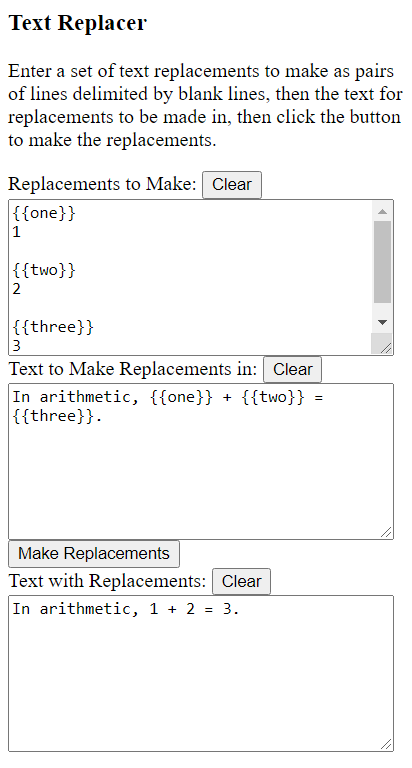
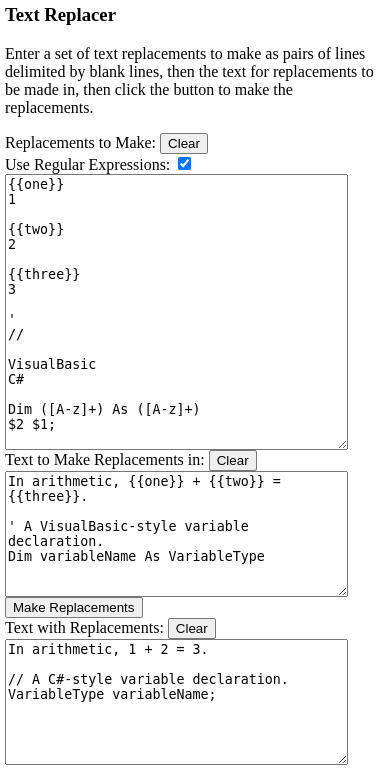
Added support for regular expressions.

diff --git a/Source/TextFinderAndReplacer.html b/Source/TextFinderAndReplacer.html
@@ -4,19 +4,22 @@
 
 <div id="divUi">
 
-	<div>
-		<h3>Text Replacer</h3>
-		<p>
-			Enter a set of text replacements to make
-			as pairs of lines delimited by blank lines,
-			then the text for replacements to be made in,
-			then click the button to make the replacements.
-		</p>
+	<h3>Text Replacer</h3>
+	<p>
+		Enter a set of text replacements to make
+		as pairs of lines delimited by blank lines,
+		then the text for replacements to be made in,
+		then click the button to make the replacements.
+	</p>
 
+	<div>
 		<label>Replacements to Make:</label>
 		<button onclick="UiEventHandler.buttonReplacementsToMakeClear_Clicked();">Clear</button>
 		<br />
-		<textarea id="textareaReplacementsToMake" cols="40" rows="8">
+		<label>Use Regular Expressions:</label>
+		<input id="checkboxUseRegularExpressions" type="checkbox"></input>
+		<br />
+		<textarea id="textareaReplacementsToMake" cols="40" rows="18">
 {{one}}
 1
 
@@ -25,6 +28,15 @@
 
 {{three}}
 3
+
+'
+//
+
+VisualBasic
+C#
+
+Dim ([A-z]+) As ([A-z]+)
+$2 $1;
 		</textarea>
 	</div>
 
@@ -34,6 +46,9 @@
 		<br />
 		<textarea id="textareaTextToMakeReplacementsIn" cols="40" rows="8">
 In arithmetic, {{one}} + {{two}} = {{three}}.
+
+' A VisualBasic-style variable declaration.
+Dim variableName As VariableType
 		</textarea>
 	</div>
 
@@ -54,8 +69,14 @@ In arithmetic, {{one}} + {{two}} = {{three}}.
 
 class TextReplacer
 {
-	constructor(replacementsToMakeAsStringPairs)
+	constructor
+	(
+		shouldUseRegularExpressions,
+		replacementsToMakeAsStringPairs
+	)
 	{
+		this.shouldUseRegularExpressions =
+			shouldUseRegularExpressions;
 		this.replacementsToMakeAsStringPairs =
 			replacementsToMakeAsStringPairs;
 	}
@@ -69,21 +90,68 @@ class TextReplacer
 			var replacementToMakeAsStringPair =
 				this.replacementsToMakeAsStringPairs[r];
 
-			var textToBeReplaced = replacementToMakeAsStringPair[0];
-			var textToReplaceWith = replacementToMakeAsStringPair[1];
+			var makeReplacementsInText =
+			(
+				this.shouldUseRegularExpressions
+				? this.makeReplacementInText_WithRegularExpressions
+				: this.makeReplacementInText_NoRegularExpressions
+			);
 
-			textWithReplacements =
-				textWithReplacements.split
-				(
-					textToBeReplaced
-				).join
-				(
-					textToReplaceWith
-				);
+			textWithReplacements = makeReplacementsInText
+			(
+				replacementToMakeAsStringPair,
+				textWithReplacements
+			);
 		}
+
+		return textWithReplacements
+	}
+
+	makeReplacementInText_NoRegularExpressions
+	(
+		replacementToMakeAsStringPair,
+		textToMakeReplacementsIn
+	)
+	{
+		var textToBeReplaced = replacementToMakeAsStringPair[0];
+		var textToReplaceWith = replacementToMakeAsStringPair[1];
+
+		var textWithReplacements =
+			textToMakeReplacementsIn.split
+			(
+				textToBeReplaced
+			).join
+			(
+				textToReplaceWith
+			);
 
 		return textWithReplacements;
 	}
+
+	makeReplacementInText_WithRegularExpressions
+	(
+		replacementToMakeAsStringPair,
+		textToMakeReplacementsIn
+	)
+	{
+		var expressionToBeReplaced = new RegExp
+		(
+			replacementToMakeAsStringPair[0], "g" // global
+		);
+
+		var expressionToReplaceWith =
+			replacementToMakeAsStringPair[1];
+
+		var textWithReplacements =
+			textToMakeReplacementsIn.replaceAll
+			(
+				expressionToBeReplaced,
+				expressionToReplaceWith
+			);
+
+		return textWithReplacements;
+	}
+
 }
 
 class UiEventHandler
@@ -91,6 +159,11 @@ class UiEventHandler
 	static buttonMakeReplacements_Clicked()
 	{
 		var d = document;
+
+		var checkboxUseRegularExpressions =
+			d.getElementById("checkboxUseRegularExpressions");
+		var shouldUseRegularExpressions =
+			checkboxUseRegularExpressions.checked;
 
 		var textareaReplacementsToMake =
 			d.getElementById("textareaReplacementsToMake");
@@ -108,6 +181,7 @@ class UiEventHandler
 
 		var textReplacer = new TextReplacer
 		(
+			shouldUseRegularExpressions,
 			replacementsToMakeAsStringPairs
 		);
 
